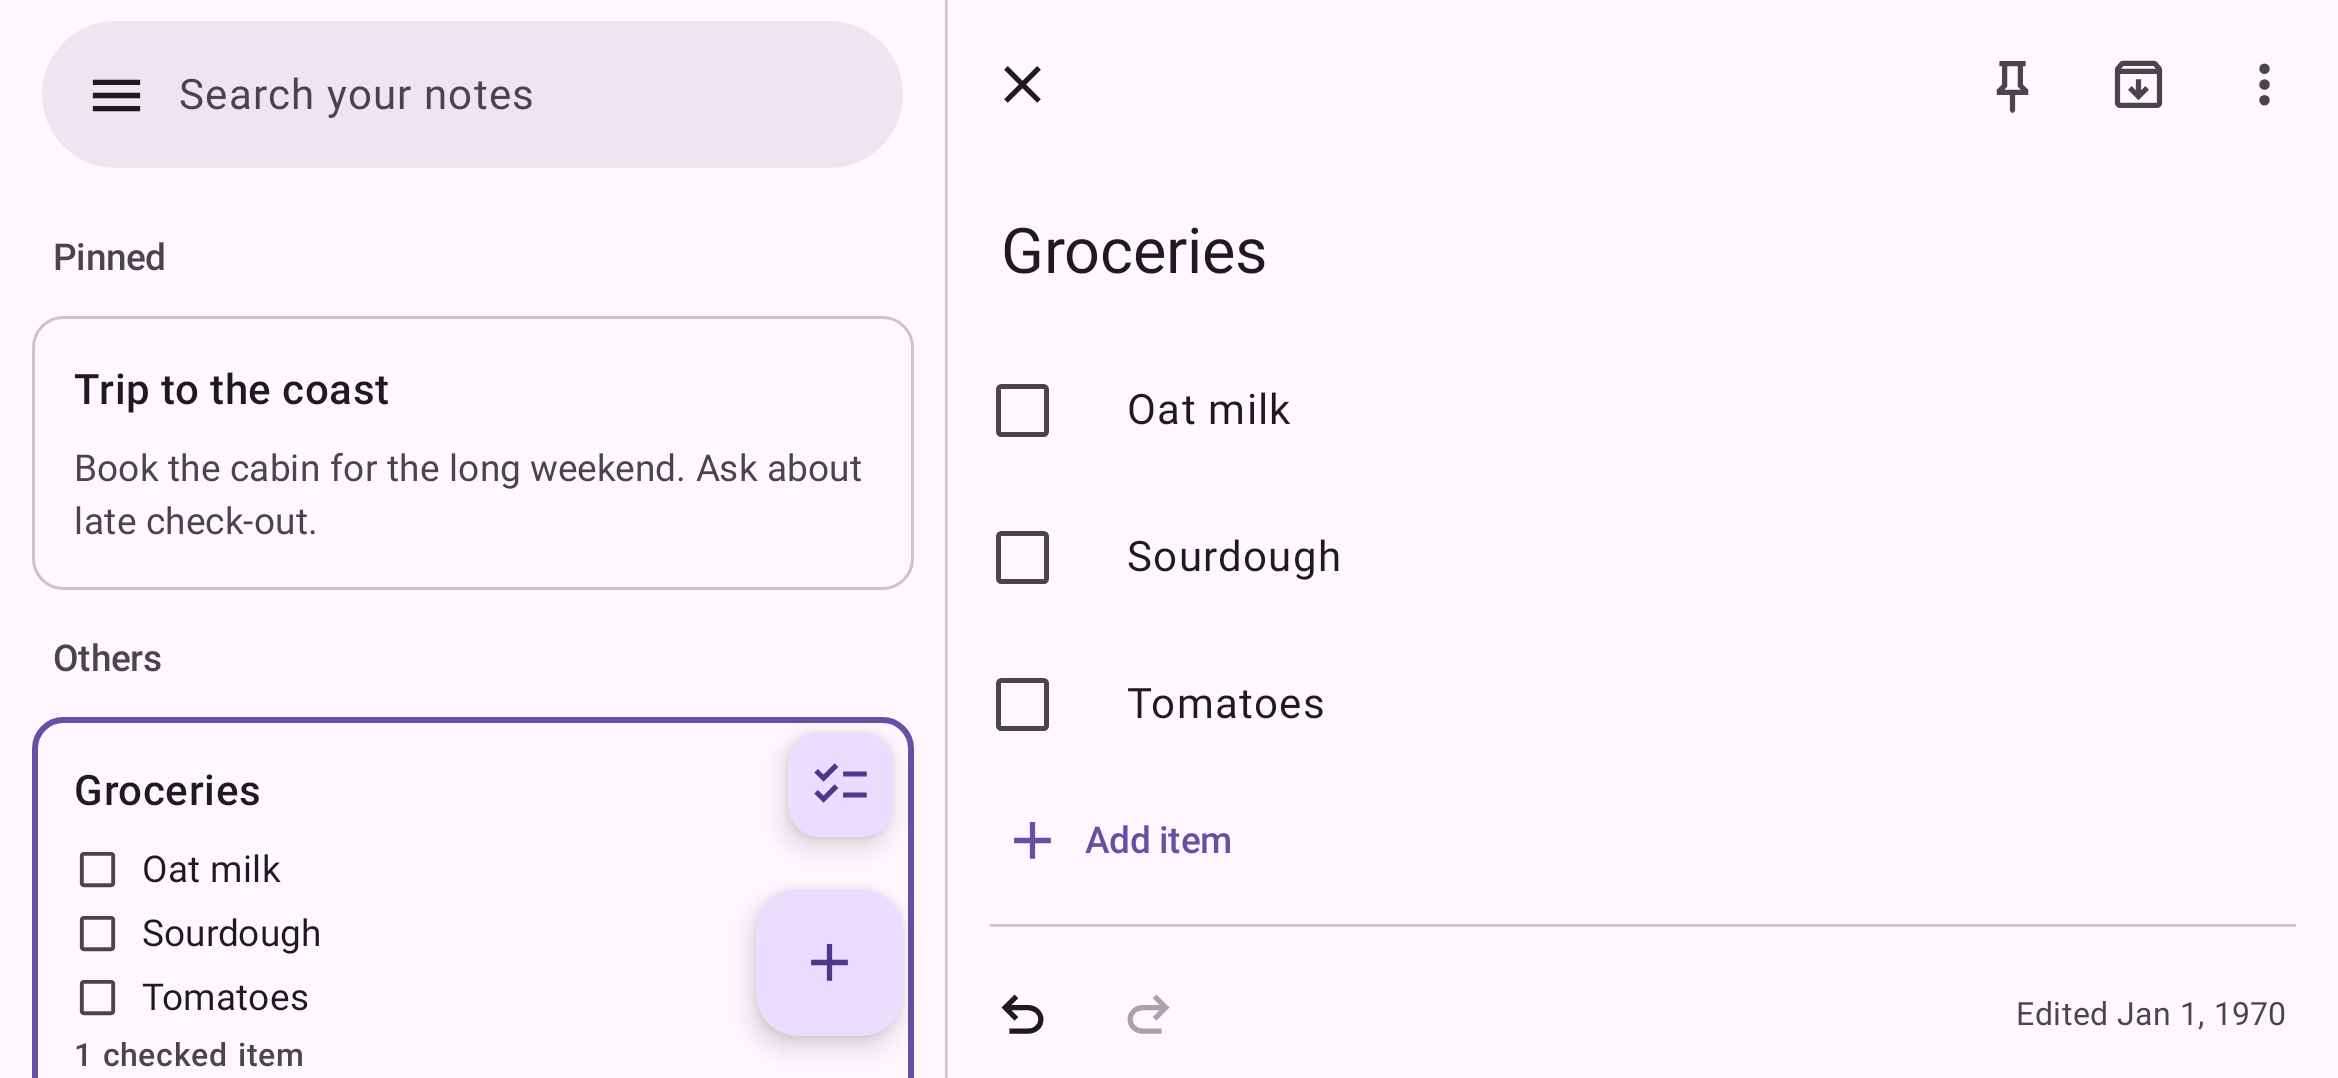
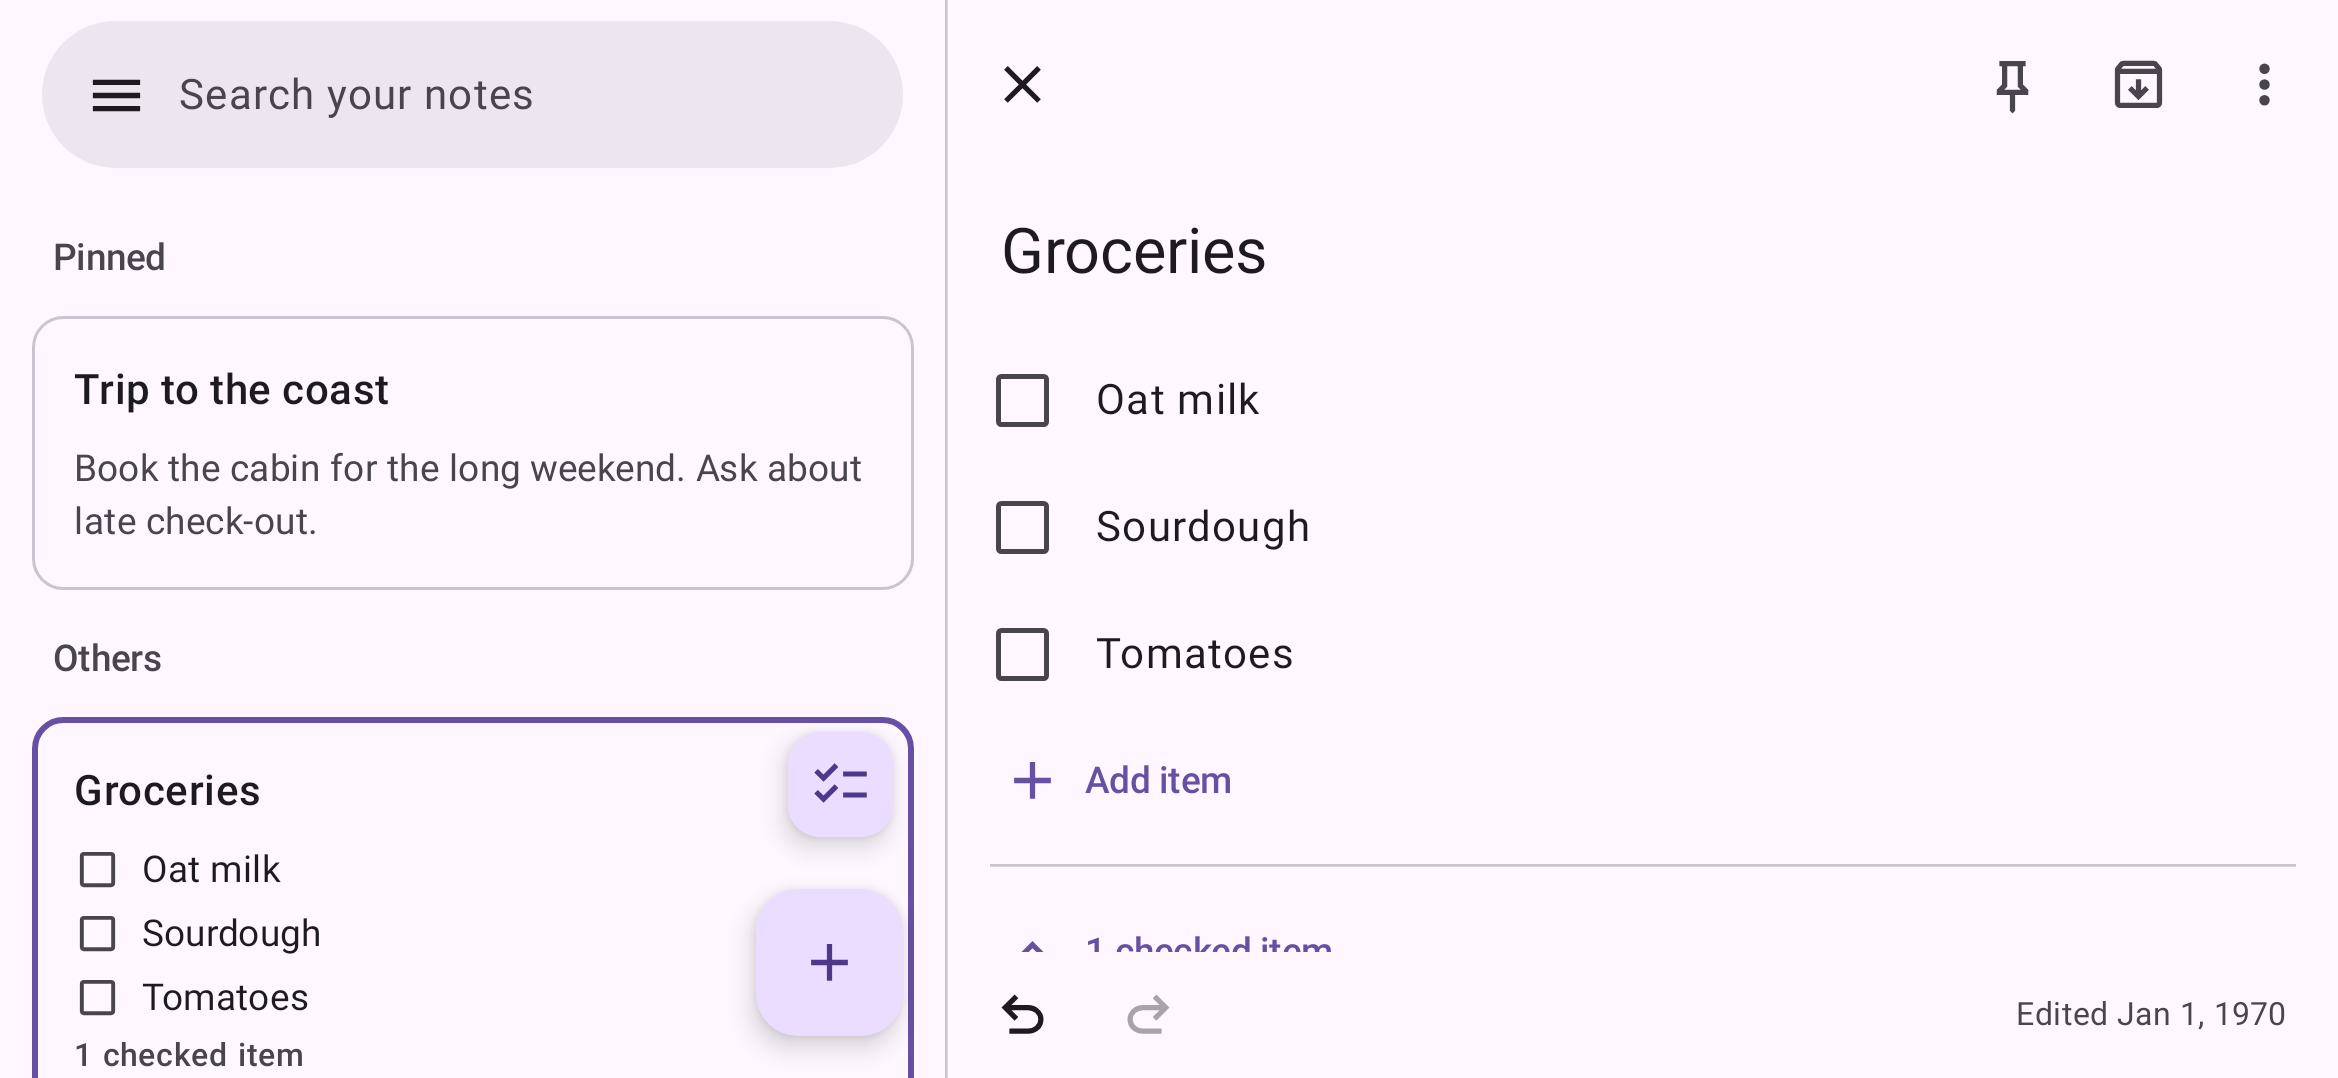
Notes 0.1.3: checklist items sit closer together
Checklist rows used a Material TextField (56dp minimum plus padding), so items were about 64dp apart. Rows are now 48dp, the checkbox's touch target, with a plain text field that grows when an item wraps. Enter, Backspace-to-merge and the remove button work as before (checked on the emulator).

diff --git a/apps/notes/src/main/kotlin/io/github/michaelmassoni/tessera/notes/ui/Editor.kt b/apps/notes/src/main/kotlin/io/github/michaelmassoni/tessera/notes/ui/Editor.kt
@@ -8,11 +8,13 @@ import androidx.compose.foundation.layout.Column
 import androidx.compose.foundation.layout.Row
 import androidx.compose.foundation.layout.fillMaxSize
 import androidx.compose.foundation.layout.fillMaxWidth
+import androidx.compose.foundation.layout.heightIn
 import androidx.compose.foundation.layout.imePadding
 import androidx.compose.foundation.layout.navigationBarsPadding
 import androidx.compose.foundation.layout.padding
 import androidx.compose.foundation.layout.widthIn
 import androidx.compose.foundation.rememberScrollState
+import androidx.compose.foundation.text.BasicTextField
 import androidx.compose.foundation.text.KeyboardOptions
 import androidx.compose.foundation.verticalScroll
 import androidx.compose.material3.Checkbox
@@ -43,6 +45,7 @@ import androidx.compose.ui.Modifier
 import androidx.compose.ui.focus.FocusRequester
 import androidx.compose.ui.focus.focusRequester
 import androidx.compose.ui.focus.onFocusChanged
+import androidx.compose.ui.graphics.SolidColor
 import androidx.compose.ui.input.key.Key
 import androidx.compose.ui.input.key.KeyEventType
 import androidx.compose.ui.input.key.key
@@ -368,26 +371,38 @@ private fun ItemRow(
             onFocused()
         }
     }
-    Row(modifier.fillMaxWidth().padding(start = 4.dp, end = 4.dp), verticalAlignment = Alignment.CenterVertically) {
+    val textStyle =
+        MaterialTheme.typography.bodyLarge.copy(
+            textDecoration = if (item.checked) TextDecoration.LineThrough else null,
+            color = if (item.checked) MaterialTheme.colorScheme.onSurfaceVariant else MaterialTheme.colorScheme.onSurface,
+        )
+    // A plain field rather than a Material TextField: its 56dp minimum and inner padding spread
+    // the list out. Each row is the checkbox's 48dp, growing only when an item wraps.
+    Row(
+        modifier.fillMaxWidth().heightIn(min = 48.dp).padding(start = 4.dp, end = 4.dp),
+        verticalAlignment = Alignment.CenterVertically,
+    ) {
         Checkbox(checked = item.checked, onCheckedChange = { onToggle() })
-        TextField(
+        val hint = stringResource(R.string.item_hint)
+        BasicTextField(
             value = field,
             onValueChange = {
                 field = it
                 if (it.text != item.text) onTextChange(it.text)
             },
-            placeholder = { Text(stringResource(R.string.item_hint)) },
-            textStyle =
-                MaterialTheme.typography.bodyLarge.copy(
-                    textDecoration = if (item.checked) TextDecoration.LineThrough else null,
-                    color =
-                        if (item.checked) MaterialTheme.colorScheme.onSurfaceVariant else MaterialTheme.colorScheme.onSurface,
-                ),
-            colors = plainFieldColors(),
+            textStyle = textStyle,
+            cursorBrush = SolidColor(MaterialTheme.colorScheme.primary),
             keyboardOptions = KeyboardOptions(capitalization = KeyboardCapitalization.Sentences),
+            decorationBox = { inner ->
+                Box {
+                    if (field.text.isEmpty()) Text(hint, style = textStyle.copy(color = MaterialTheme.colorScheme.onSurfaceVariant))
+                    inner()
+                }
+            },
             modifier =
                 Modifier
                     .weight(1f)
+                    .padding(start = 4.dp, top = 12.dp, bottom = 12.dp)
                     .focusRequester(focus)
                     .onFocusChanged { focused = it.isFocused }
                     .onPreviewKeyEvent { event ->

diff --git a/docs/notes.md b/docs/notes.md
@@ -37,6 +37,9 @@ and no network.
   - Enter adds an item, and Backspace on an empty item removes it.
   - Checked items move to a collapsible "Checked items" group at the bottom.
   - Converting between text and checklist keeps the lines.
+  - Items sit close together like a paper list: each row is the checkbox's 48dp touch target,
+    growing only when an item wraps (a plain text field, not a Material `TextField` with its 56dp
+    minimum and padding).
 - **Saving:** changes save automatically. They're debounced while typing and flushed when
   leaving the editor or the app. An empty new note is discarded.
 - **Undo and redo:** in the editor's top bar, per editing session.
